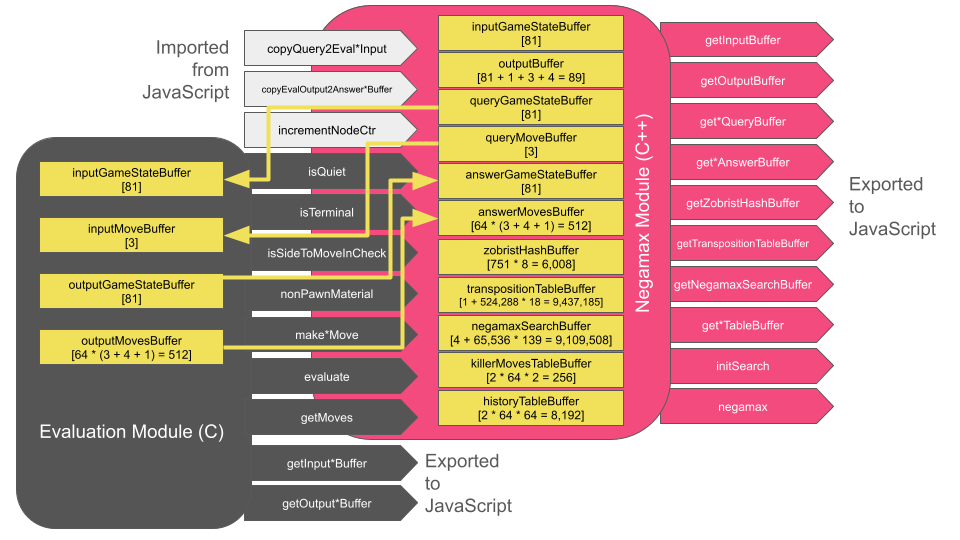
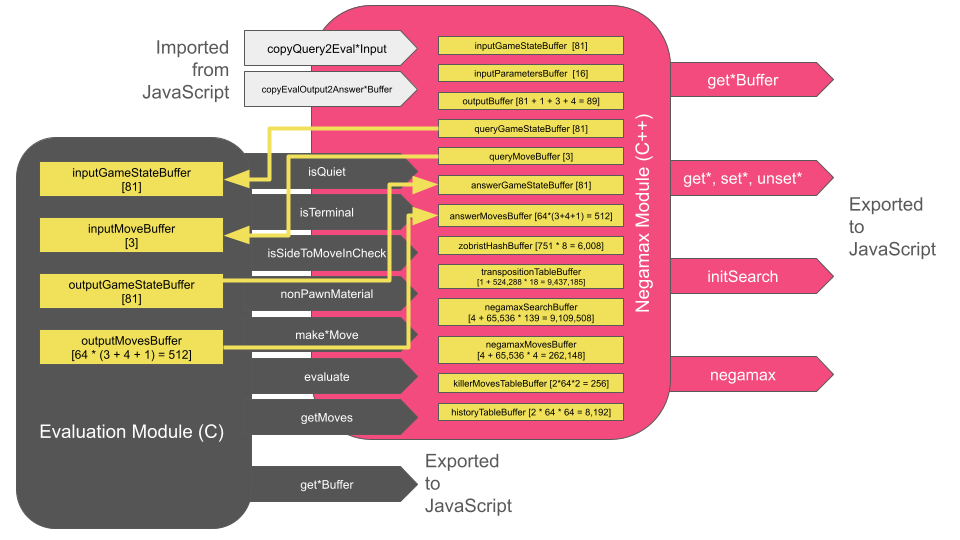
Add files via upload

Changed region(s): [[0.2188, 0.0296, 0.6562, 0.8], [0.6875, 0.0296, 0.9688, 0.8], [0.25, 0.8, 0.4375, 0.9778]]

diff --git a/player.js b/player.js
@@ -6,6 +6,8 @@ class Player
         this.team = 'Black';                                        //  In {'White', 'Black'}. Default to Black.
         this.ply = 3;                                               //  Depth to which this A.I. should search.
 
+        this.searchId = 0;                                          //  Each negamax run gets a unique ID.
+
         this.branches = [];                                         //  Array of Objects, each {ByteArray(GameState), uchar(depth), ByteArray(Move)}.
         this.branchIterator = 0;                                    //                          The state in which    Depth to      The agent's reply.
                                                                     //                          the agent may act.    which agent   (Having searched.)
@@ -29,17 +31,39 @@ class Player
 
         //////////////////////////////////////////////////////////////  The negamax engine.
         this.negamaxEngine = null;                                  //  WebAssembly Module containing the negamax search engine.
+
         this.negamaxInputOffset = null;                             //  (Offset into Module memory.)
         this.negamaxInputBuffer = null;                             //  ByteArray: Input buffer for tree search. Encode a query-gamestate here.
                                                                     //             When Player asks negamax something.
-        this.negamaxQueryOffset = null;                             //  (Offset into Module memory.)
-        this.negamaxQueryBuffer = null;                             //  ByteArray: Input buffer for a query to the evaluation module. Encode a temp-query state here.
-                                                                    //             When negamax asks evaluation something.
-        this.negamaxSearchOffset = null;                            //  (Offset into Module memory.)
-        this.negamaxSearchBuffer = null;                            //  ByteArray: Working buffer for tree-search.
+        this.negamaxParamsOffset = null;                            //  (Offset into Module memory.)
+        this.negamaxParamsBuffer = null;                            //  ByteArray: Input buffer for search parameters.
 
-        this.negamaxAuxiliaryOffset = null;                         //  (Offset into Module memory.)
-        this.negamaxAuxiliaryBuffer = null;                         //  ByteArray: Receiving buffer for node expansion.
+        this.negamaxOutputOffset = null;                            //  (Offset into Module memory.)
+        this.negamaxOutputBuffer = null;                            //  ByteArray: Output buffer for tree search. Decode an answer from here.
+                                                                    //             When negamax answers Player.
+        this.negamaxQueryGameStateOffset = null;                    //  (Offset into Module memory.)
+        this.negamaxQueryGameStateBuffer = null;                    //  ByteArray: Used by the negamax module to pass encoded game states to the evaluation module.
+
+        this.negamaxQueryMoveOffset = null;                         //  (Offset into Module memory.)
+        this.negamaxQueryMoveBuffer = null;                         //  ByteArray: Used by the negamax module to pass encoded moves to the evaluation module.
+
+        this.negamaxAnswerGameStateOffset = null;                   //  (Offset into Module memory.)
+        this.negamaxAnswerGameStateBuffer = null;                   //  ByteArray: Used by the negamax module to receive encoded game states from the evaluation module.
+
+        this.negamaxAnswerMovesOffset = null;                       //  (Offset into Module memory.)
+        this.negamaxAnswerMovesBuffer = null;                       //  ByteArray: Used by the negamax module to receive encoded moves from the evaluation module.
+
+        this.ZobristHashOffset = null;                              //  (Offset into Module memory.)
+        this.ZobristHashBuffer = null;                              //  ByteArray representation of the Zobrist hasher.
+
+        this.TranspositionTableOffset = null;                       //  (Offset into Module memory.)
+        this.TranspositionTableBuffer = null;                       //  ByteArray representation of the transposition table.
+
+        this.negamaxSearchOffset = null;                            //  (Offset into Module memory.)
+        this.negamaxSearchBuffer = null;                            //  ByteArray: Working node buffer for tree-search.
+
+        this.negamaxMovesOffset = null;                             //  (Offset into Module memory.)
+        this.negamaxMovesBuffer = null;                             //  ByteArray: Working move buffer for tree-search.
 
         this.negamaxKillerMovesOffset = null;                       //  (Offset into Module memory.)
         this.negamaxKillerMovesBuffer = null;                       //  ByteArray representation of the killer-moves table.
@@ -47,20 +71,11 @@ class Player
         this.negamaxHistoryHeuristicOffset = null;                  //  (Offset into Module memory.)
         this.negamaxHistoryHeuristicBuffer = null;                  //  ByteArray representation of the history-heuristic table.
 
-        this.negamaxOutputOffset = null;                            //  (Offset into Module memory.)
-        this.negamaxOutputBuffer = null;                            //  ByteArray: Output buffer for tree search. Decode an answer from here.
-                                                                    //             When negamax answers Player.
-        this.ZobristHashOffset = null;                              //  (Offset into Module memory.)
-        this.ZobristHashBuffer = null;                              //  ByteArray representation of the Zobrist hasher.
-
-        this.TranspositionTableOffset = null;                       //  (Offset into Module memory.)
-        this.TranspositionTableBuffer = null;                       //  ByteArray representation of the transposition table.
-
         //////////////////////////////////////////////////////////////  Book lookup.
         this.bookLookup = new XMLHttpRequest();                     //  IE 7+, Firefox, Chrome, Opera, Safari
         this.callOut = false;                                       //  True while AJAX call has yet to return.
 
-                                                                    //  Fetch, instantiate, and connect the Evaluation Module.
+        //////////////////////////////////////////////////////////////  Fetch, instantiate, and connect the Evaluation Module.
         fetch('obj/wasm/eval.wasm', {headers: {'Content-Type': 'application/wasm'} })
         .then(response => response.arrayBuffer())
         .then(bytes =>
@@ -248,6 +263,8 @@ class Player
 
                         for(i = 0; i < 4; i++)                      //  Blank out the first four bytes; let the rest be trash.
                           this.TranspositionTableBuffer[i] = 0;
+
+                        this.TranspositionTableBuffer[0] = 1;       //  Set "generation byte" to 1.
 
                         elementsLoaded++;                           //  Check negaMaxEngine off our list.
                                                                     //  Load a Zobrist Hasher.

diff --git a/negamax.cpp b/negamax.cpp
@@ -1,6 +1,6 @@
 /*
 
-sudo docker run --rm -v $(pwd):/src -u $(id -u):$(id -g) --mount type=bind,source=$(pwd),target=/home/src emscripten-c em++ -I ./ -Os -s STANDALONE_WASM -s INITIAL_MEMORY=17235968 -s STACK_SIZE=1048576 -s EXPORTED_FUNCTIONS="['_getInputBuffer','_getParametersBuffer','_getQueryBuffer','_getOutputBuffer','_getZobristHashBuffer','_getTranspositionTableBuffer','_getNegamaxSearchBuffer','_getNegamaxMovesBuffer','_getAnswerGameStateBuffer','_getAnswerMovesBuffer','_getKillerMovesBuffer','_getHistoryBuffer','_initSearch','_negamax']" -Wl,--no-entry "negamax.cpp" -o "negamax.wasm"
+sudo docker run --rm -v $(pwd):/src -u $(id -u):$(id -g) --mount type=bind,source=$(pwd),target=/home/src emscripten-c em++ -I ./ -Os -s STANDALONE_WASM -s INITIAL_MEMORY=17235968 -s STACK_SIZE=1048576 -s EXPORTED_FUNCTIONS="['_getInputBuffer','_getParametersBuffer','_getQueryGameStateBuffer','_getQueryMoveBuffer','_getAnswerGameStateBuffer','_getAnswerMovesBuffer','_getOutputBuffer','_getZobristHashBuffer','_getTranspositionTableBuffer','_getNegamaxSearchBuffer','_getNegamaxMovesBuffer','_getKillerMovesBuffer','_getHistoryTableBuffer','_setSearchId','_getSearchId','_getStatus','_setControlFlag','_unsetControlFlag','_getControlByte','_setTargetDepth','_getTargetDepth','_getDepthAchieved','_setDeadline','_getDeadline','_getNodesSearched','_initSearch','_negamax']" -Wl,--no-entry "negamax.cpp" -o "negamax.wasm"
 
 */
 
@@ -19,6 +19,28 @@ sudo docker run --rm -v $(pwd):/src -u $(id -u):$(id -g) --mount type=bind,sourc
 
 #define _KILLER_MOVE_PER_PLY                     2                  /* Typical for other chess engines. */
 #define _KILLER_MOVE_MAX_DEPTH                  64                  /* Simply something "comfortably large". */
+
+#define PARAM_BUFFER_SEARCHID_OFFSET          0x00                  /* Bytes into "inputParametersBuffer", where the search ID begins. */
+#define PARAM_BUFFER_STATUS_OFFSET            0x04                  /* Bytes into "inputParametersBuffer", where the status byte exists. */
+#define PARAM_BUFFER_COMMAND_OFFSET           0x05                  /* Bytes into "inputParametersBuffer", where the command byte exists. */
+#define PARAM_BUFFER_TARGETDEPTH_OFFSET       0x06                  /* Bytes into "inputParametersBuffer", where the target depth byte exists. */
+#define PARAM_BUFFER_DEPTHACHIEVED_OFFSET     0x07                  /* Bytes into "inputParametersBuffer", where the depth achieved byte exists. */
+#define PARAM_BUFFER_DEADLINE_OFFSET          0x08                  /* Bytes into "inputParametersBuffer", where the deadline (milliseconds) begins. */
+#define PARAM_BUFFER_NODESSEARCHED_OFFSET     0x0C                  /* Bytes into "inputParametersBuffer", where the node count begins. */
+
+#define CTRL_STOP_REQUESTED                   0x01                  /* Set this byte in commandFlags to request that the present search stop. */
+#define CTRL_HARD_ABORT                       0x02                  /* Set this byte in commandFlags to request that the present search abort. */
+#define CTRL_TIME_ENABLED                     0x04                  /* Set this byte in commandFlags to indicate that search is timed. */
+#define CTRL_PONDERING                        0x08                  /* Set this byte in commandFlags to indicate that search occurs during opponent's turn. */
+
+#define STATUS_IDLE                           0x00                  /* No search running. Awaiting instructions. */
+#define STATUS_RUNNING                        0x01                  /* Search running. */
+#define STATUS_DONE                           0x02                  /* Search complete. */
+#define STATUS_STOP_REQUESTED                 0x03                  /* Will halt the present search at the next safe point. */
+#define STATUS_STOP_TIME                      0x04                  /* Will halt the present search at the next safe point, owing to time constraints. */
+#define STATUS_STOP_ROOT_CHANGED              0x05                  /* Will halt the present search at the next safe point, because the root has changed. */
+#define STATUS_ABORTED                        0x06                  /* Search was hard-killed: be wary of partial results. */
+#define STATUS_ERROR                          0xFF                  /* An error has occurred. */
 
 #define _PHASE_ENTER_NODE                        0                  /* Go to  when entering negamax(). */
 #define _PHASE_GEN_AND_ORDER                     1                  /* Go to  when entering negamax(). */
@@ -48,18 +70,6 @@ sudo docker run --rm -v $(pwd):/src -u $(id -u):$(id -g) --mount type=bind,sourc
 
 #define MOVEFLAG_QUIET                           0                  /* The move is neither a capture, nor a promotion. */
 #define MOVEFLAG_NOISY                           1                  /* The move is a capture, or a promotion (or both). */
-
-//#define _PHASE_TRANSPO_CHECK        0                               /* Indicating Transpo-Check is to follow. */
-//#define _PHASE_NULL_MOVE_PRUNING    1                               /* Indicating Null-Move Pruning is to follow. */
-//#define _PHASE_INTERNAL_ITER_DEEP   2                               /* Indicating Internal Iterative Deepening is to follow. */
-//#define _PHASE_EXPANSION            3                               /* Indicating Expansion is to follow. */
-//#define _PHASE_MOVE_ORDERING        4                               /* Indicating Move-Ordering is to follow. */
-//#define _PHASE_LATE_MOVE_REDUCTION  5                               /* Indicating Late-Move-Reduction is to follow. */
-//#define _PHASE_EVALUATION           6                               /* Indicating Evaluation is to follow. */
-//#define _PHASE_KILLER_MOVES_UPDATE  7                               /* Indicating Killer-Move Updating is to follow. */
-//#define _PHASE_HISTORY_UPDATE       8                               /* Indicating History-Updating is to follow. */
-//#define _PHASE_TRANSPO_UPDATE       9                               /* Indicating Transpo-Update is to follow. */
-//#define _PHASE_PARENT_UPDATE       10                               /* Indicating Parent-Update is to follow. */
 
 /**************************************************************************************************
  Typedefs  */
@@ -176,9 +186,23 @@ extern "C"
     unsigned char* getTranspositionTableBuffer(void);
     unsigned char* getNegamaxSearchBuffer(void);
     unsigned char* getNegamaxMovesBuffer(void);
-    unsigned char* getKillerMovesTableBuffer(void);
+    unsigned char* getKillerMovesBuffer(void);
     unsigned char* getHistoryTableBuffer(void);
-    void initSearch(unsigned char);
+
+    void setSearchId(unsigned int);
+    unsigned int getSearchId(void);
+    unsigned char getStatus(void);
+    void setControlFlag(unsigned char);
+    void unsetControlFlag(unsigned char);
+    unsigned char getControlByte(void);
+    void setTargetDepth(unsigned char);
+    unsigned char getTargetDepth(void);
+    unsigned char getDepthAchieved(void);
+    void setDeadline(unsigned int);
+    unsigned int getDeadline(void);
+    unsigned int getNodesSearched(void);
+
+    void initSearch(void);
     bool negamax(void);
   }
 
@@ -371,7 +395,7 @@ unsigned char* getNegamaxMovesBuffer(void)
   }
 
 /* Expose the global array decalred here to JavaScript (just so we can address it). */
-unsigned char* getKillerMovesTableBuffer(void)
+unsigned char* getKillerMovesBuffer(void)
   {
     return &killerMovesTableBuffer[0];
   }
@@ -383,12 +407,132 @@ unsigned char* getHistoryTableBuffer(void)
   }
 
 /**************************************************************************************************
+ Search parameter functions  */
+
+/* Set the search ID. */
+void setSearchId(unsigned int searchId)
+  {
+    unsigned char buffer4[4];
+    unsigned char i;
+
+    memcpy(buffer4, (unsigned char*)(&searchId), 4);                //  Force the unsigned int into a 4-byte temp buffer.
+    for(i = 0; i < 4; i++)                                          //  Copy bytes to parameters buffer.
+      inputParametersBuffer[PARAM_BUFFER_SEARCHID_OFFSET + i] = buffer4[i];
+
+    return;
+  }
+
+/* Retrieve the search ID from the parameters buffer. */
+unsigned int getSearchId(void)
+  {
+    unsigned int searchId;
+    unsigned char buffer4[4];
+    unsigned char i;
+
+    for(i = 0; i < 4; i++)
+      buffer4[i] = inputParametersBuffer[PARAM_BUFFER_SEARCHID_OFFSET + i];
+
+    memcpy(&searchId, buffer4, 4);                                  //  Force the 4-byte buffer into an unsigned int.
+
+    return searchId;
+  }
+
+/* Retrieve the search status from the parameters buffer. */
+unsigned char getStatus(void)
+  {
+    return inputParametersBuffer[PARAM_BUFFER_STATUS_OFFSET];
+  }
+
+/* Set a bit (or bits) in the command byte. */
+void setControlFlag(unsigned char flag)
+  {
+    inputParametersBuffer[PARAM_BUFFER_COMMAND_OFFSET] |= flag;
+    return;
+  }
+
+/* Unset a bit (or bits) in the command byte. */
+void unsetControlFlag(unsigned char flag)
+  {
+    inputParametersBuffer[PARAM_BUFFER_COMMAND_OFFSET] &= ~(flag);
+    return;
+  }
+
+/* Retrieve the command byte. */
+unsigned char getControlByte(void)
+  {
+    return inputParametersBuffer[PARAM_BUFFER_COMMAND_OFFSET];
+  }
+
+/* Set the target depth. */
+void setTargetDepth(unsigned char depth)
+  {
+    inputParametersBuffer[PARAM_BUFFER_TARGETDEPTH_OFFSET] = depth;
+    return;
+  }
+
+/* Retrieve the target depth. */
+unsigned char getTargetDepth(void)
+  {
+    return inputParametersBuffer[PARAM_BUFFER_TARGETDEPTH_OFFSET];
+  }
+
+/* Retrieve the depth achieved by search (so far). */
+unsigned char getDepthAchieved(void)
+  {
+    return inputParametersBuffer[PARAM_BUFFER_DEPTHACHIEVED_OFFSET];
+  }
+
+/* Set the search deadline in milliseconds. */
+void setDeadline(unsigned int ms)
+  {
+    unsigned char buffer4[4];
+    unsigned char i;
+
+    memcpy(buffer4, (unsigned char*)(&ms), 4);                      //  Force the unsigned int into a 4-byte temp buffer.
+    for(i = 0; i < 4; i++)                                          //  Copy bytes to parameters buffer.
+      inputParametersBuffer[PARAM_BUFFER_DEADLINE_OFFSET + i] = buffer4[i];
+
+    return;
+  }
+
+/* Retrieve the search deadline in milliseconds. */
+unsigned int getDeadline(void)
+  {
+    unsigned int ms;
+    unsigned char buffer4[4];
+    unsigned char i;
+
+    for(i = 0; i < 4; i++)
+      buffer4[i] = inputParametersBuffer[PARAM_BUFFER_DEADLINE_OFFSET + i];
+
+    memcpy(&ms, buffer4, 4);                                        //  Force the 4-byte buffer into an unsigned int.
+
+    return ms;
+  }
+
+/* Retrieve the number of nodes searched. */
+unsigned int getNodesSearched(void)
+  {
+    unsigned int ctr;
+    unsigned char buffer4[4];
+    unsigned char i;
+
+    for(i = 0; i < 4; i++)
+      buffer4[i] = inputParametersBuffer[PARAM_BUFFER_NODESSEARCHED_OFFSET + i];
+
+    memcpy(&ctr, buffer4, 4);                                       //  Force the 4-byte buffer into an unsigned int.
+
+    return ctr;
+  }
+
+/**************************************************************************************************
  Negamax-search functions  */
 
 /* Initialize the root node for (interrupatble) negamax search. */
-void initSearch(unsigned char depth)
+void initSearch(void)
   {
     NegamaxNode root;
+    unsigned char depth;
     unsigned int i;
 
     for(i = 0; i < _GAMESTATE_BYTE_SIZE; i++)                       //  Copy root gamestate byte array from global "inputGameStateBuffer"
@@ -407,7 +551,8 @@ void initSearch(unsigned char depth)
     root.moveOffset = 0;                                            //  Set offset into moves buffer for the children of root.
     root.moveCount = 0;                                             //  Set the number of children root has.
     root.moveNextPtr = 0;                                           //  Set the index to which root's children iterator currently points.
-
+                                                                    //  Retrieve target-depth parameter and clamp minimum to 1.
+    depth = inputParametersBuffer[PARAM_BUFFER_TARGETDEPTH_OFFSET] > 0 ? inputParametersBuffer[PARAM_BUFFER_TARGETDEPTH_OFFSET] : 1;
     root.depth = (signed char)depth;                                //  Set root's depth to "depth".
     root.ply = 0;                                                   //  Set root's ply to zero.
 
@@ -438,12 +583,26 @@ void initSearch(unsigned char depth)
    So that tree search does not overwhelm the client-side CPU, negamax must be redesigned in a "heartbeat" manner. */
 bool negamax(void)
   {
-    NegamaxNode node;
     unsigned int gsIndex;
+    NegamaxNode node;
 
     unsigned char buffer4[4];
     unsigned int i, j;
 
+    //////////////////////////////////////////////////////////////////  Is search halting?
+    if(controlFlags & CTRL_HARD_ABORT)
+      {
+        //
+        return true;
+      }
+
+    if(controlFlags & CTRL_STOP_REQUESTED)
+      {
+        //
+        return true;
+      }
+
+    //////////////////////////////////////////////////////////////////  Proceed.
 
     gsIndex = restoreNegamaxSearchBufferLength() - 1;               //  Index for top of stack is length minus one.
     restoreNode(gsIndex, &node);                                    //  Restore the node at the top of the stack.
@@ -491,8 +650,10 @@ bool negamax(void)
           i = 0;
           for(j = 0; j < _GAMESTATE_BYTE_SIZE; j++)                 //  Copy game state to output buffer.
             outputBuffer[i++] = node.gs[j];
-
-          outputBuffer[i++] = (unsigned char)node.depth;            //  Copy depth to output buffer.
+                                                                    //  When the root completes, the depth achieved equals the depth requested.
+          inputParametersBuffer[PARAM_BUFFER_DEPTHACHIEVED_OFFSET] = inputParametersBuffer[PARAM_BUFFER_TARGETDEPTH_OFFSET];
+                                                                    //  Copy depth to output buffer.
+          outputBuffer[i++] = inputParametersBuffer[PARAM_BUFFER_DEPTHACHIEVED_OFFSET];
 
           for(j = 0; j < _MOVE_BYTE_SIZE; j++)                      //  Copy best move for this state, as determined by depth, to output buffer.
             outputBuffer[i++] = node.bestMove[j];
